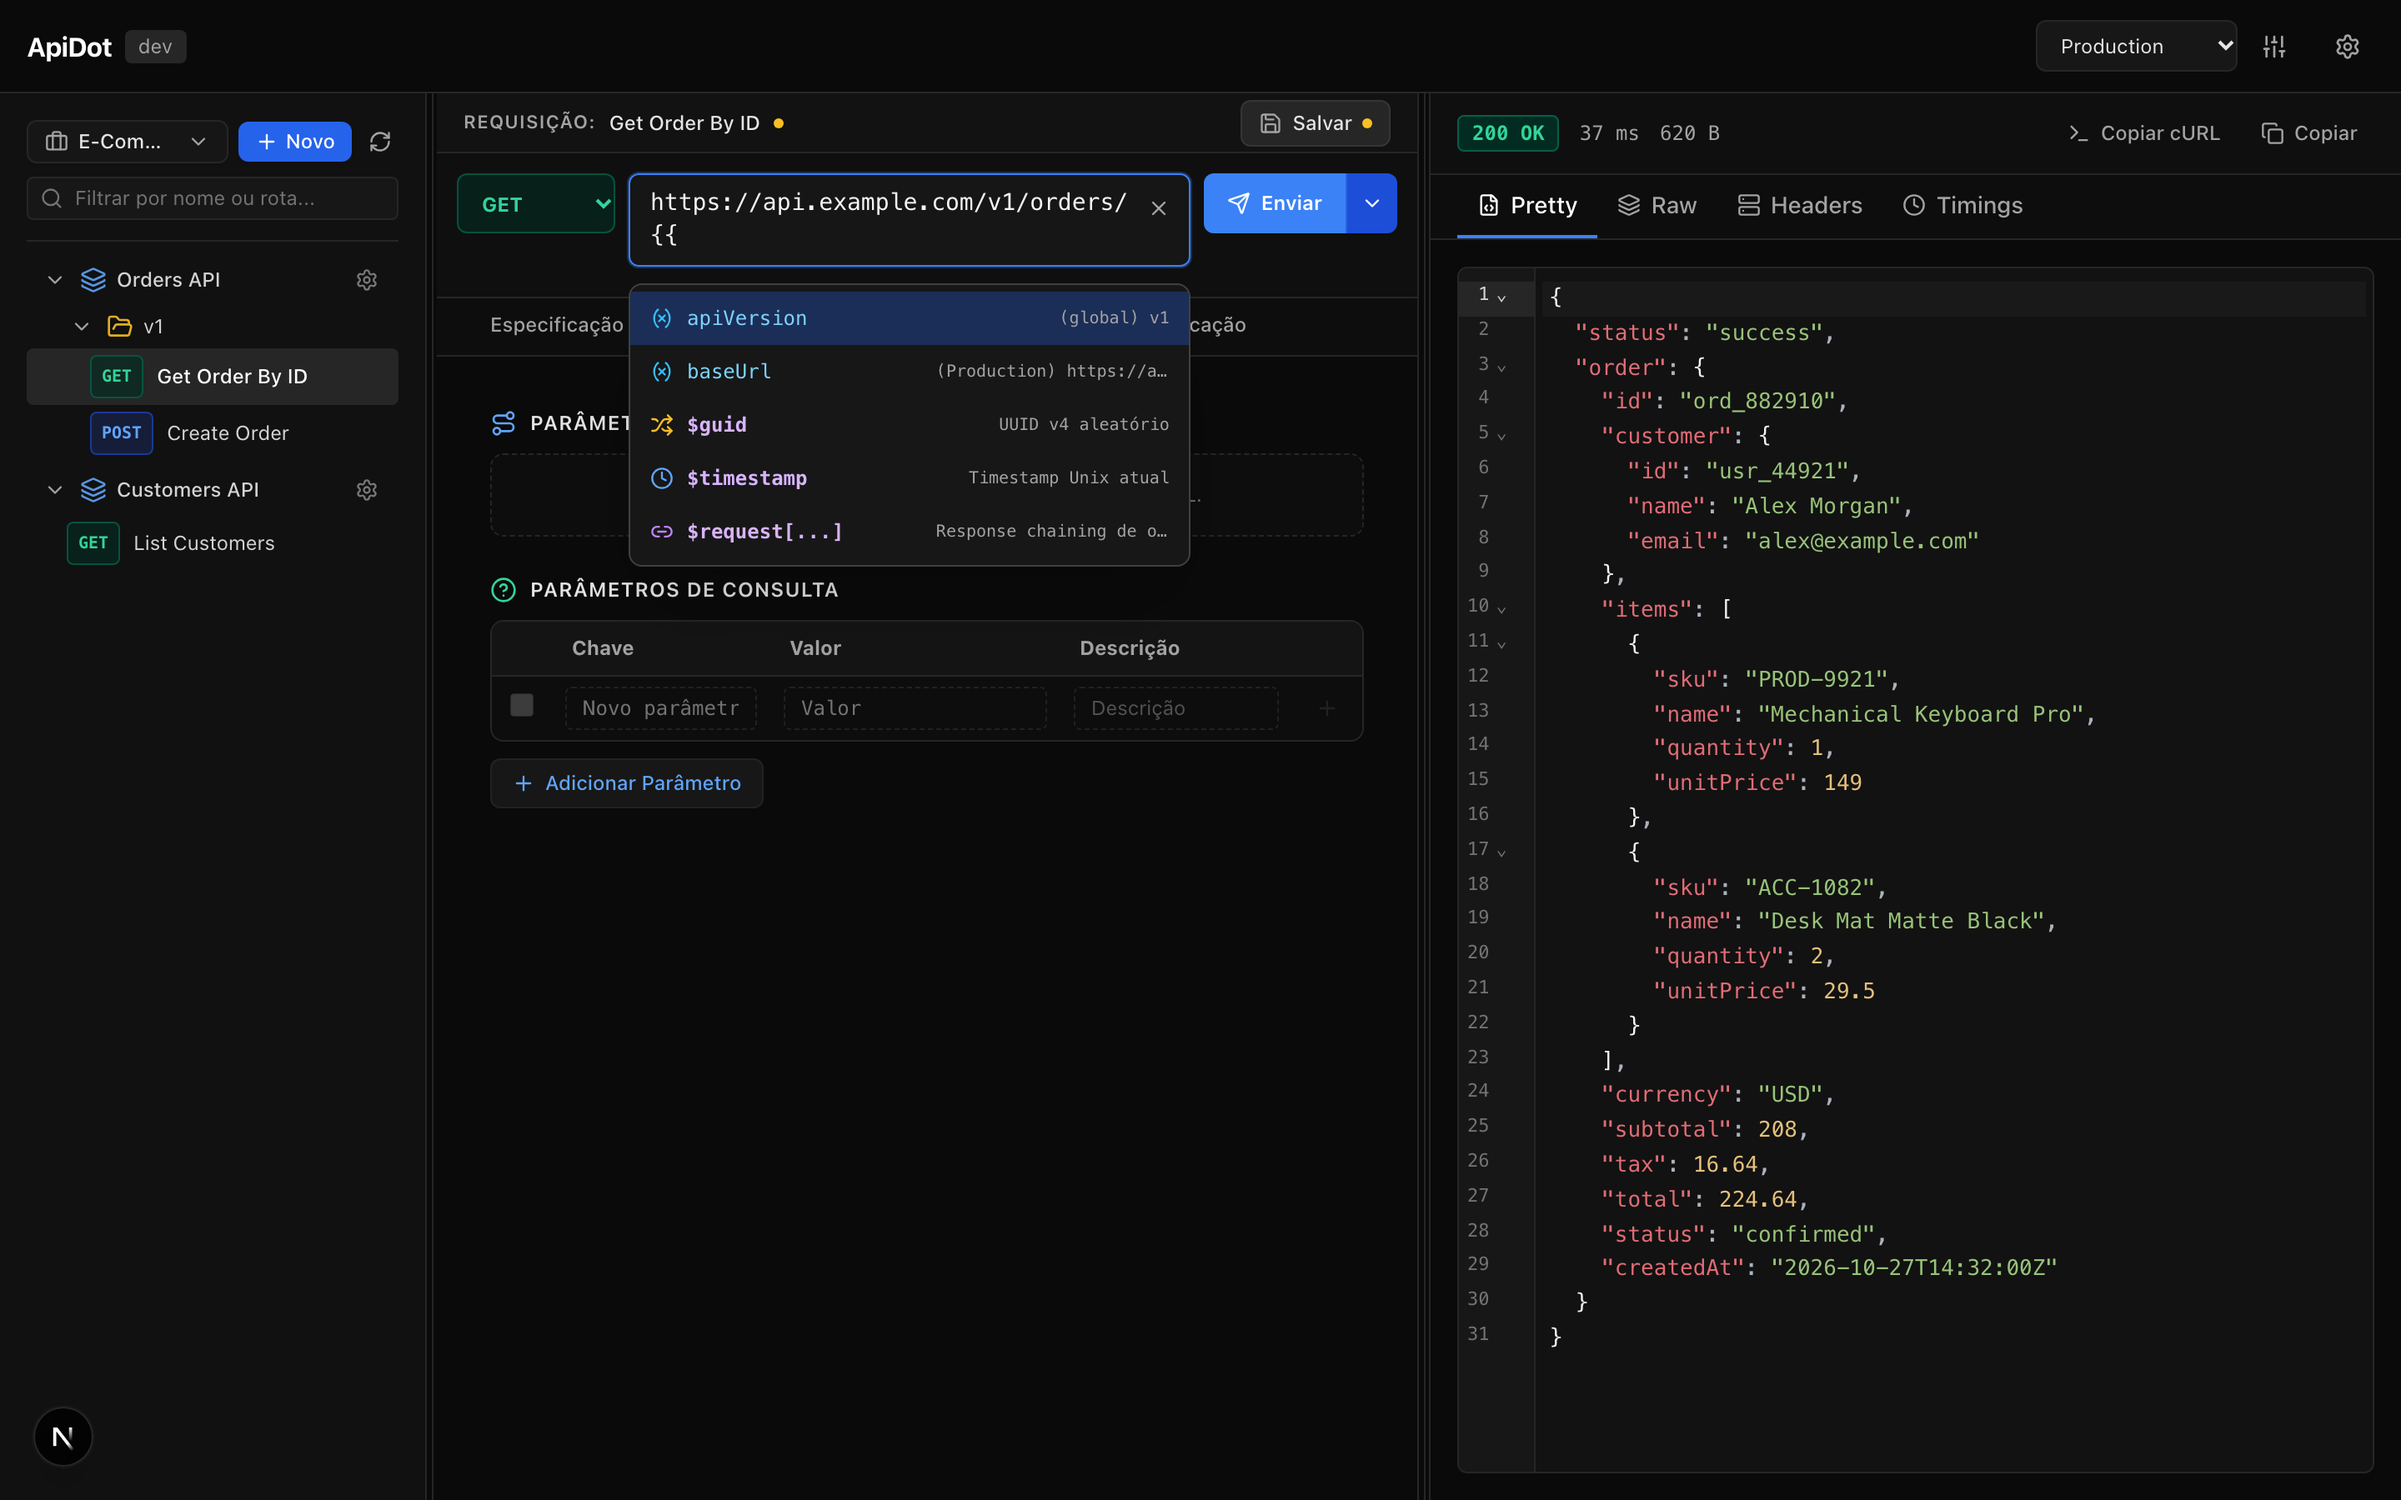
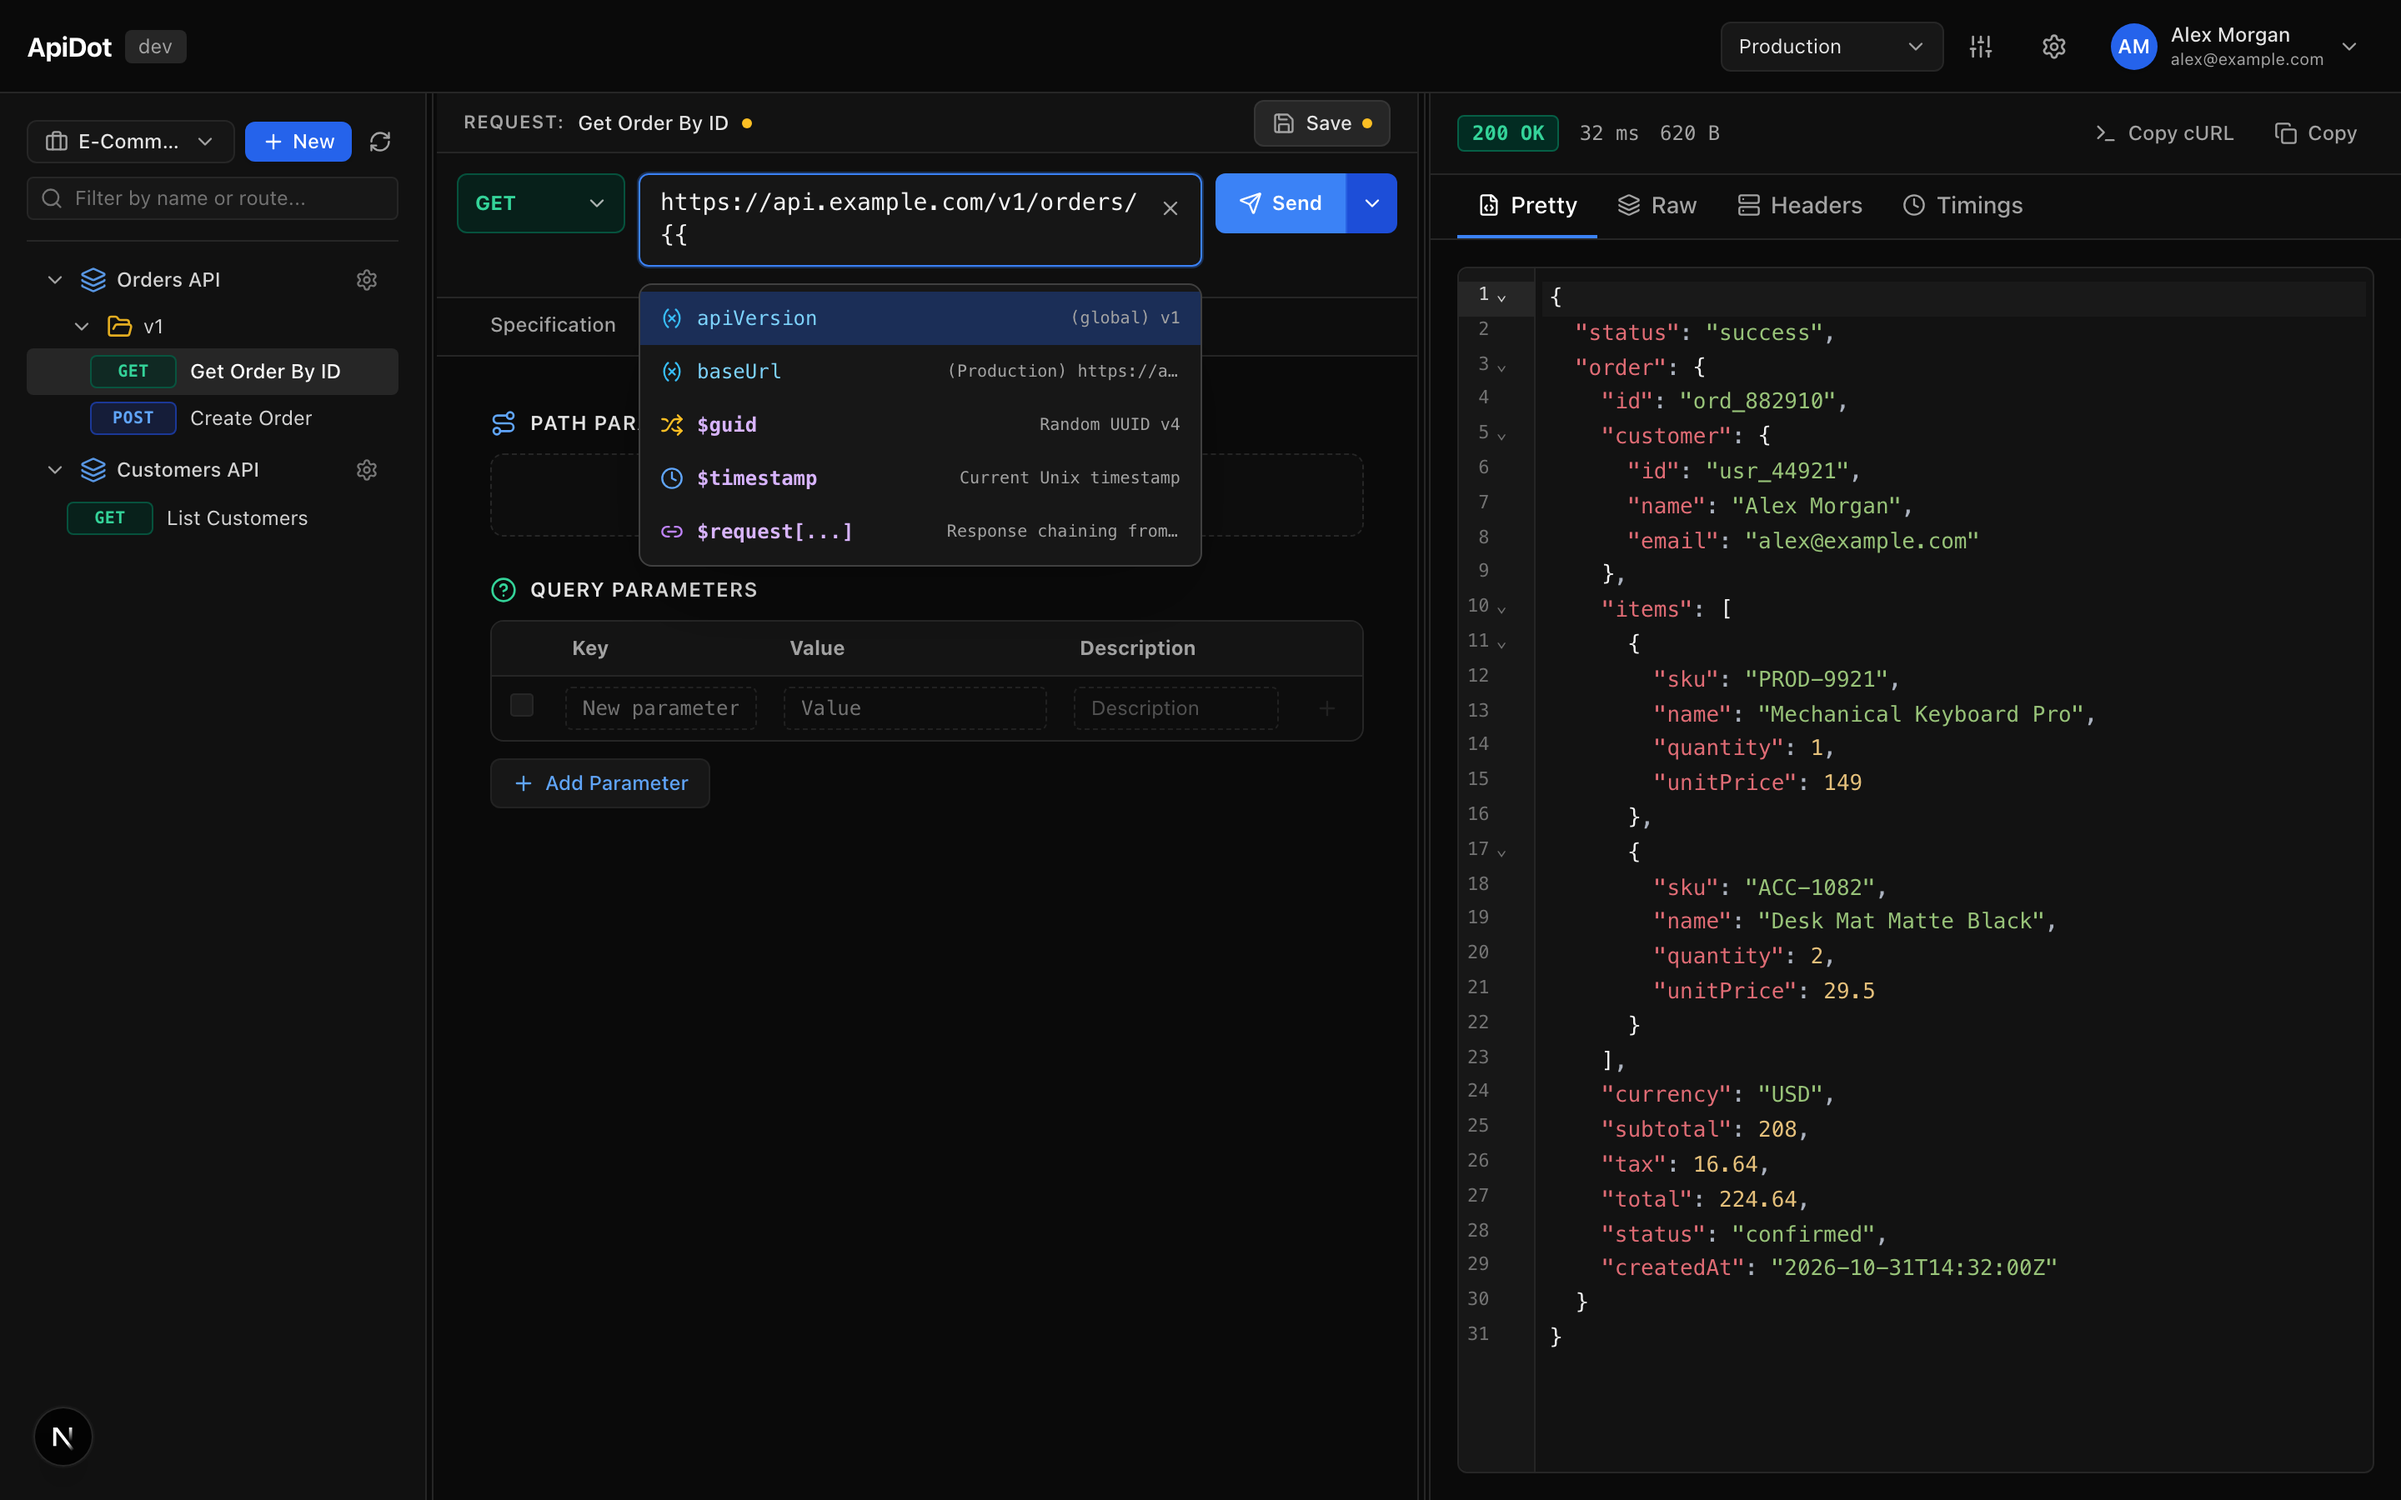
docs: update README screenshots with English UI and add interactive specification showcase

diff --git a/frontend/playwright/capture-public-screenshots.js b/frontend/playwright/capture-public-screenshots.js
@@ -8,12 +8,66 @@ if (!fs.existsSync(SCREENSHOTS_DIR)) {
 }
 
 const CHROMIUM_PATH = process.env.PLAYWRIGHT_CHROMIUM_EXECUTABLE_PATH || undefined;
+const PORT = process.env.PORT || 3005;
+const BASE_URL = `http://localhost:${PORT}`;
 
 const MOCK_WORKSPACES = [
   { id: 'ws-ecommerce', name: 'E-Commerce Core', createdAtUtc: '2026-10-27T10:00:00Z' },
   { id: 'ws-payments', name: 'Payments & Billing', createdAtUtc: '2026-10-27T10:00:00Z' },
   { id: 'ws-analytics', name: 'Analytics & Events', createdAtUtc: '2026-10-27T10:00:00Z' },
 ];
+
+const MOCK_ORDER_SCHEMA = {
+  summary: 'Create Customer Order',
+  description: 'Validates line items, reserves inventory across regional fulfillment centers, and queues carrier shipment.',
+  parameters: [
+    {
+      name: 'Idempotency-Key',
+      in: 'header',
+      required: true,
+      description: 'Unique UUID to prevent duplicate order placement',
+      defaultOrExample: '7f8b1a2c-3d4e-5f6a-7b8c-9d0e1f2a3b4c',
+    },
+  ],
+  body: {
+    type: 'object',
+    required: ['customerId', 'items'],
+    properties: {
+      customerId: {
+        type: 'string',
+        description: 'Unique customer identifier',
+        example: 'usr_44921',
+      },
+      items: {
+        type: 'array',
+        description: 'List of product SKUs and quantities',
+        example: '[{"sku":"PROD-9921","quantity":1}]',
+      },
+      priority: {
+        type: 'string',
+        description: 'Shipping tier priority',
+        example: 'express',
+      },
+    },
+  },
+  responses: [
+    {
+      statusCode: '201',
+      description: 'Order created and queued for processing',
+      example: '{"id":"ord_882910","status":"confirmed","total":224.64}',
+    },
+    {
+      statusCode: '400',
+      description: 'Invalid item SKU or insufficient inventory',
+      example: '{"error":"INVALID_SKU"}',
+    },
+    {
+      statusCode: '401',
+      description: 'Missing or expired authentication token',
+      example: '{"error":"UNAUTHORIZED"}',
+    },
+  ],
+};
 
 const MOCK_TREE = {
   workspaceId: 'ws-ecommerce',
@@ -55,6 +109,7 @@ const MOCK_TREE = {
                 null,
                 2
               ),
+              schemaDefinition: JSON.stringify(MOCK_ORDER_SCHEMA, null, 2),
               collectionId: 'col-orders',
               folderId: 'fld-v1',
             },
@@ -95,7 +150,7 @@ const MOCK_EXECUTE_RESPONSE = {
     'x-request-id': 'req-ord-882910-live',
     'server': 'Kestrel / .NET 9.0',
     'cache-control': 'no-cache',
-    'date': 'Tue, 27 Oct 2026 14:32:00 GMT',
+    'date': 'Sat, 31 Oct 2026 14:32:00 GMT',
   },
   body: JSON.stringify(
     {
@@ -126,7 +181,7 @@ const MOCK_EXECUTE_RESPONSE = {
         tax: 16.64,
         total: 224.64,
         status: 'confirmed',
-        createdAt: '2026-10-27T14:32:00Z',
+        createdAt: '2026-10-31T14:32:00Z',
       },
     },
     null,
@@ -150,13 +205,52 @@ const MOCK_SYNC_RESPONSE = {
 };
 
 async function run() {
-  console.log('Launching browser for public sanitized screenshots...');
+  console.log(`Launching browser for public sanitized screenshots against ${BASE_URL}...`);
   const browser = await chromium.launch({
     executablePath: CHROMIUM_PATH,
     args: ['--no-sandbox', '--disable-setuid-sandbox', '--disable-dev-shm-usage', '--disable-gpu'],
   });
 
   const setupMocks = async (page) => {
+    await page.route('**/api/auth/me', async (route) => {
+      await route.fulfill({
+        status: 200,
+        contentType: 'application/json',
+        body: JSON.stringify({
+          id: 'usr_44921',
+          email: 'alex@example.com',
+          displayName: 'Alex Morgan',
+          isRoot: true,
+          locale: 'en-US',
+          workspaces: [
+            { id: 'ws-ecommerce', name: 'E-Commerce Core', role: 'Owner' },
+            { id: 'ws-payments', name: 'Payments & Billing', role: 'Admin' },
+            { id: 'ws-analytics', name: 'Analytics & Events', role: 'Member' },
+          ],
+        }),
+      });
+    });
+
+    await page.route('**/api/auth/config', async (route) => {
+      await route.fulfill({
+        status: 200,
+        contentType: 'application/json',
+        body: JSON.stringify({
+          oidcEnabled: true,
+          localAuthEnabled: true,
+          providerName: 'Authentik',
+        }),
+      });
+    });
+
+    await page.route('**/api/devices', async (route) => {
+      await route.fulfill({
+        status: 200,
+        contentType: 'application/json',
+        body: JSON.stringify([]),
+      });
+    });
+
     await page.route('**/api/workspaces', async (route) => {
       await route.fulfill({
         status: 200,
@@ -212,6 +306,7 @@ async function run() {
   });
 
   await context.addInitScript(() => {
+    localStorage.setItem('apidot_locale', 'en-US');
     localStorage.setItem('apidot_active_workspace_id', 'ws-ecommerce');
     localStorage.setItem(
       'apidot_workspace_storage',
@@ -261,13 +356,13 @@ async function run() {
   await setupMocks(page);
 
   console.log('Navigating to workspace...');
-  await page.goto('http://localhost:3000/workspace/ws-ecommerce/request/req-get-order');
+  await page.goto(`${BASE_URL}/workspace/ws-ecommerce/request/req-get-order`);
   await page.locator('[data-hydrated="true"]').waitFor({ state: 'attached' });
   await page.waitForTimeout(600);
 
   // 1. Desktop Hero Request/Response View
   console.log('Capturing 01-desktop-hero-request-response.png...');
-  const sendBtn = page.getByRole('button', { name: /enviar/i });
+  const sendBtn = page.getByRole('button', { name: /send request/i });
   await sendBtn.click();
   await page.getByTestId('status-badge').waitFor({ state: 'visible' });
   await page.waitForTimeout(600);
@@ -278,10 +373,10 @@ async function run() {
 
   // 2. Desktop Variable Autocomplete
   console.log('Capturing 02-desktop-variable-autocomplete.png...');
-  const urlInput = page.getByRole('textbox', { name: 'URL da requisição', exact: true });
+  const urlInput = page.getByRole('textbox', { name: /request url/i, exact: true });
   await urlInput.focus();
   await urlInput.fill('https://api.example.com/v1/orders/{{');
-  const popover = page.getByRole('listbox', { name: 'Sugestões de autocompletar' });
+  const popover = page.getByRole('listbox', { name: /autocomplete suggestions/i });
   await popover.waitFor({ state: 'visible' });
   await page.waitForTimeout(400);
 
@@ -296,13 +391,13 @@ async function run() {
 
   // 3. Desktop OpenAPI Sync Audit Modal
   console.log('Capturing 03-desktop-openapi-sync-audit.png...');
-  const settingsBtn = page.locator('aside').getByRole('button', { name: 'Configurações da coleção Orders API' });
+  const settingsBtn = page.locator('aside').getByRole('button', { name: /collection settings.*orders api/i });
   await settingsBtn.click();
   const modal = page.getByRole('dialog');
   await modal.waitFor({ state: 'visible' });
 
   // Switch to OpenAPI tab
-  const openapiTab = modal.getByRole('tab', { name: /OpenAPI/i });
+  const openapiTab = modal.getByRole('tab', { name: /openapi/i });
   await openapiTab.click();
   await page.waitForTimeout(300);
 
@@ -312,7 +407,7 @@ async function run() {
   await page.waitForTimeout(200);
 
   // Click Sync Collection
-  const syncBtn = modal.getByRole('button', { name: 'Sincronizar Coleção' });
+  const syncBtn = modal.getByRole('button', { name: /sync collection/i });
   await syncBtn.click();
   await modal.getByTestId('sync-report-section').waitFor({ state: 'visible' });
   await page.waitForTimeout(500);
@@ -322,7 +417,7 @@ async function run() {
   console.log(`Saved: ${syncAuditPath}`);
 
   // Close modal
-  await modal.getByRole('button', { name: 'Fechar configurações da coleção' }).click();
+  await modal.getByRole('button', { name: /close collection settings/i }).click();
   await modal.waitFor({ state: 'hidden' });
   await page.waitForTimeout(300);
 
@@ -336,6 +431,26 @@ async function run() {
   const workspaceTreePath = path.join(SCREENSHOTS_DIR, '04-desktop-workspace-and-tree.png');
   await page.screenshot({ path: workspaceTreePath, fullPage: false });
   console.log(`Saved: ${workspaceTreePath}`);
+
+  await page.keyboard.press('Escape');
+  await page.waitForTimeout(300);
+
+  // 5. Desktop Request Specification Tab (Key differentiator)
+  console.log('Capturing 05-desktop-request-specification.png...');
+  // Click on 'Create Order' in collection tree
+  const createOrderNode = page.locator('aside').getByText('Create Order', { exact: true });
+  await createOrderNode.click();
+  await page.waitForTimeout(400);
+
+  // Switch to Specification tab
+  const specTab = page.getByRole('tab', { name: /specification/i });
+  await specTab.click();
+  await page.getByText('Create Customer Order').waitFor({ state: 'visible' });
+  await page.waitForTimeout(500);
+
+  const specPath = path.join(SCREENSHOTS_DIR, '05-desktop-request-specification.png');
+  await page.screenshot({ path: specPath, fullPage: false });
+  console.log(`Saved: ${specPath}`);
 
   await context.close();
   await browser.close();

diff --git a/README.md b/README.md
@@ -32,6 +32,7 @@ Whether you are testing an internal microservice, debugging third-party webhooks
 | ⚡ **Precise Latency Metrics** | Real-time diagnostic timing breakdown isolating DNS resolution, TCP connect, TLS handshake, TTFB (time to first byte), and content download phases. |
 | 🧩 **Cascading Variables (`{{...}}`)** | Hierarchical variable resolution across Global, Environment, and Collection scopes with rich inline autocomplete and response chaining. |
 | 🔄 **OpenAPI v3 Sync & Audit** | Import OpenAPI v3 / Swagger specifications from URLs or raw JSON/YAML with detailed change auditing to prevent accidental regressions. |
+| 📋 **Interactive Request Specification** | Built-in OpenAPI schema inspector with property tree navigation, type contracts, required field indicators, expected status response codes, and 1-click body example generation. |
 | 💻 **Hybrid Execution Engine** | Dispatch requests either directly from your centralized server or through the Native AOT **ApiDot Agent** daemon running locally on your workstation to effortlessly reach `localhost` and internal subnets. |
 | 🔗 **Deep Linking & Workspace State** | Declarative URLs per workspace, collection, and request (`/workspace/:id/request/:id`) enabling seamless bookmarking, sharing, and state persistence across page reloads. |
 
@@ -85,6 +86,13 @@ Import schemas directly from live endpoints or specification files. Audit every 
 Organize complex API surfaces with nested collections and folders. Manage environments, inspect execution history, and search endpoints with sub-millisecond response times.
 
 ![Workspace and Tree Navigation](docs/assets/screenshots/04-desktop-workspace-and-tree.png)
+
+---
+
+### 4. Interactive OpenAPI Schema & Specification
+Inspect and define structured request contracts, required parameters, property trees, and expected response codes directly inside the request editor — complete with instant sample payload generation.
+
+![Interactive Request Specification](docs/assets/screenshots/05-desktop-request-specification.png)
 
 </details>
 
